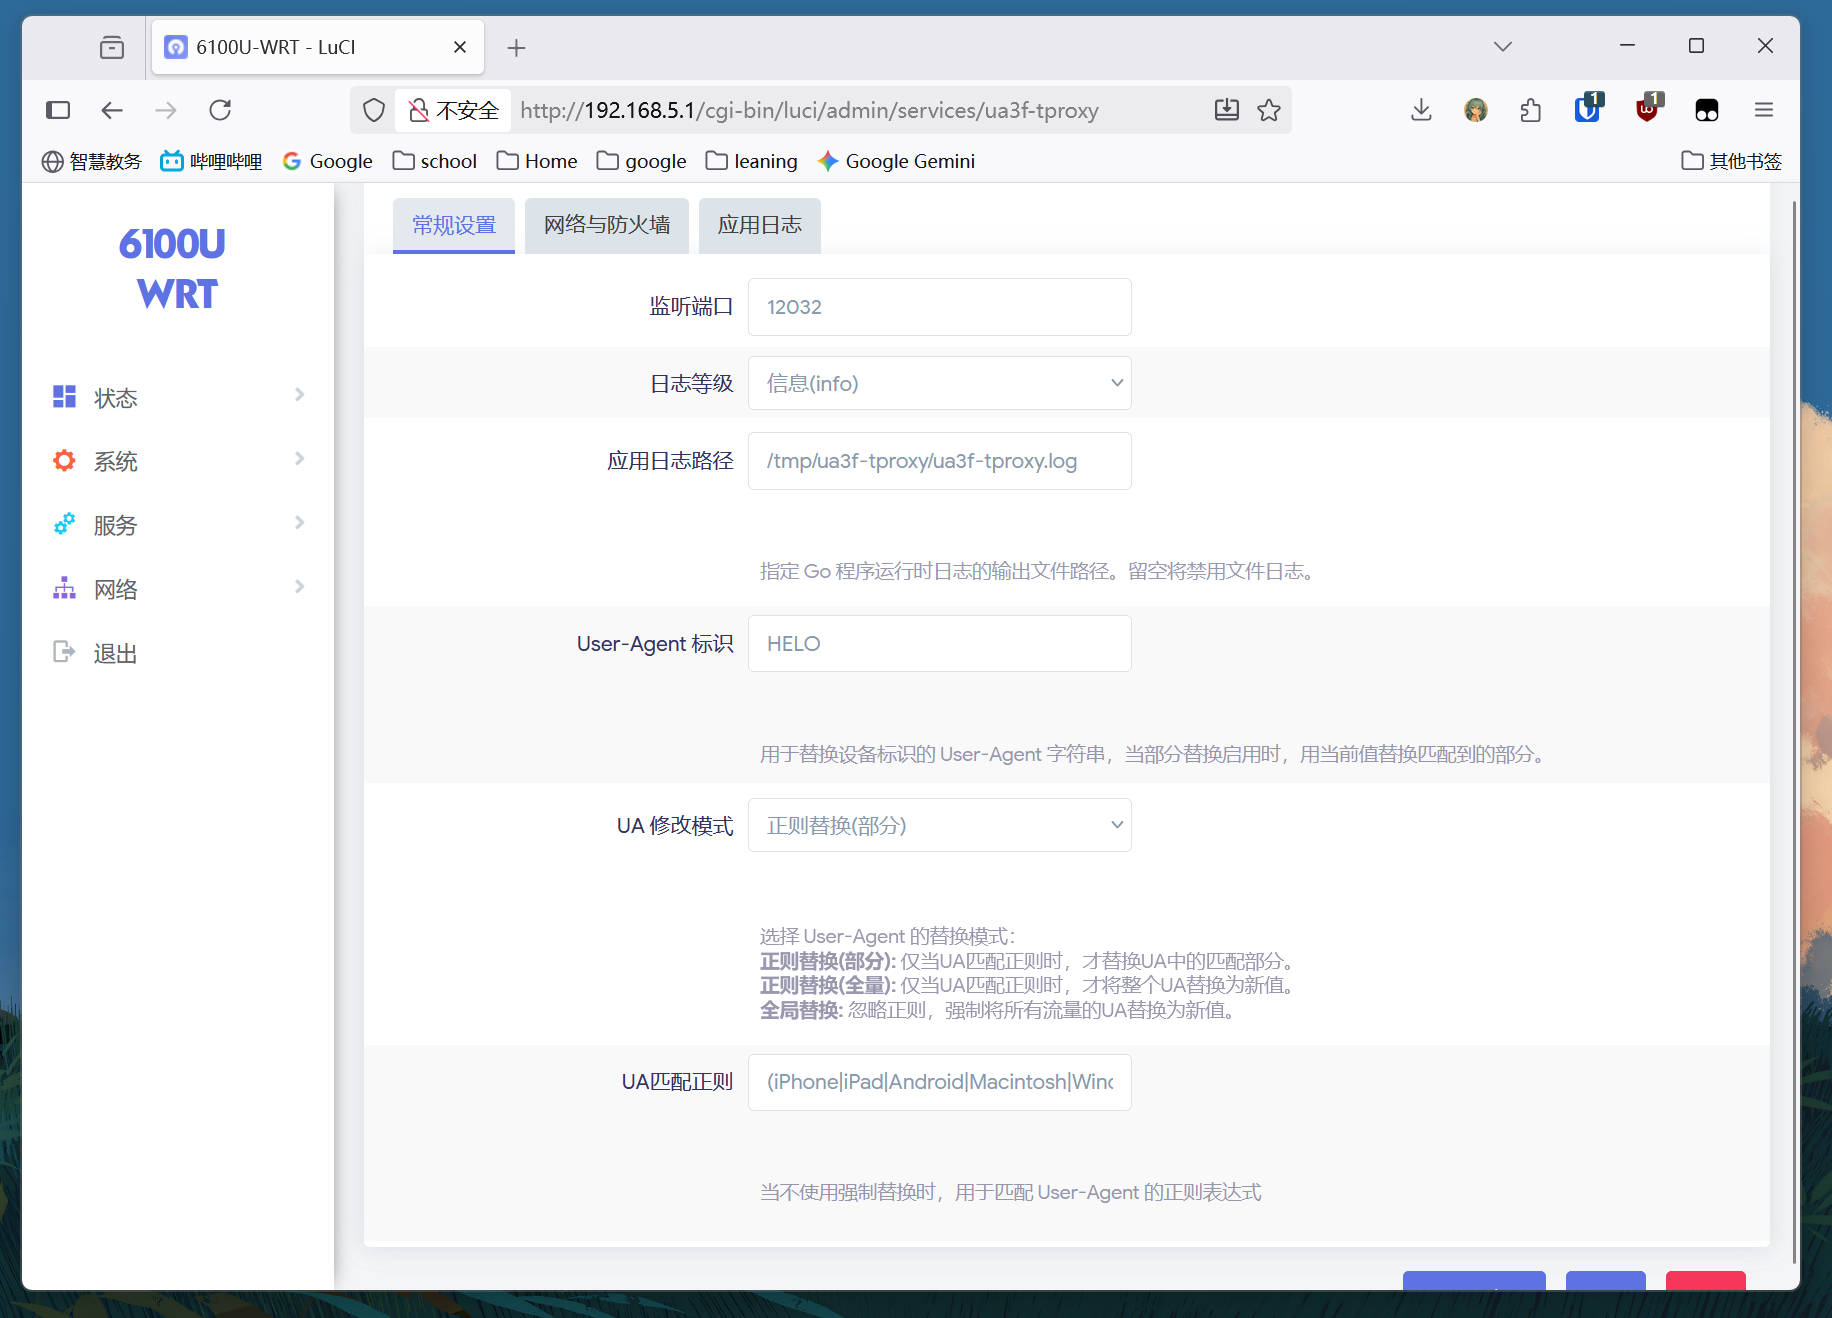
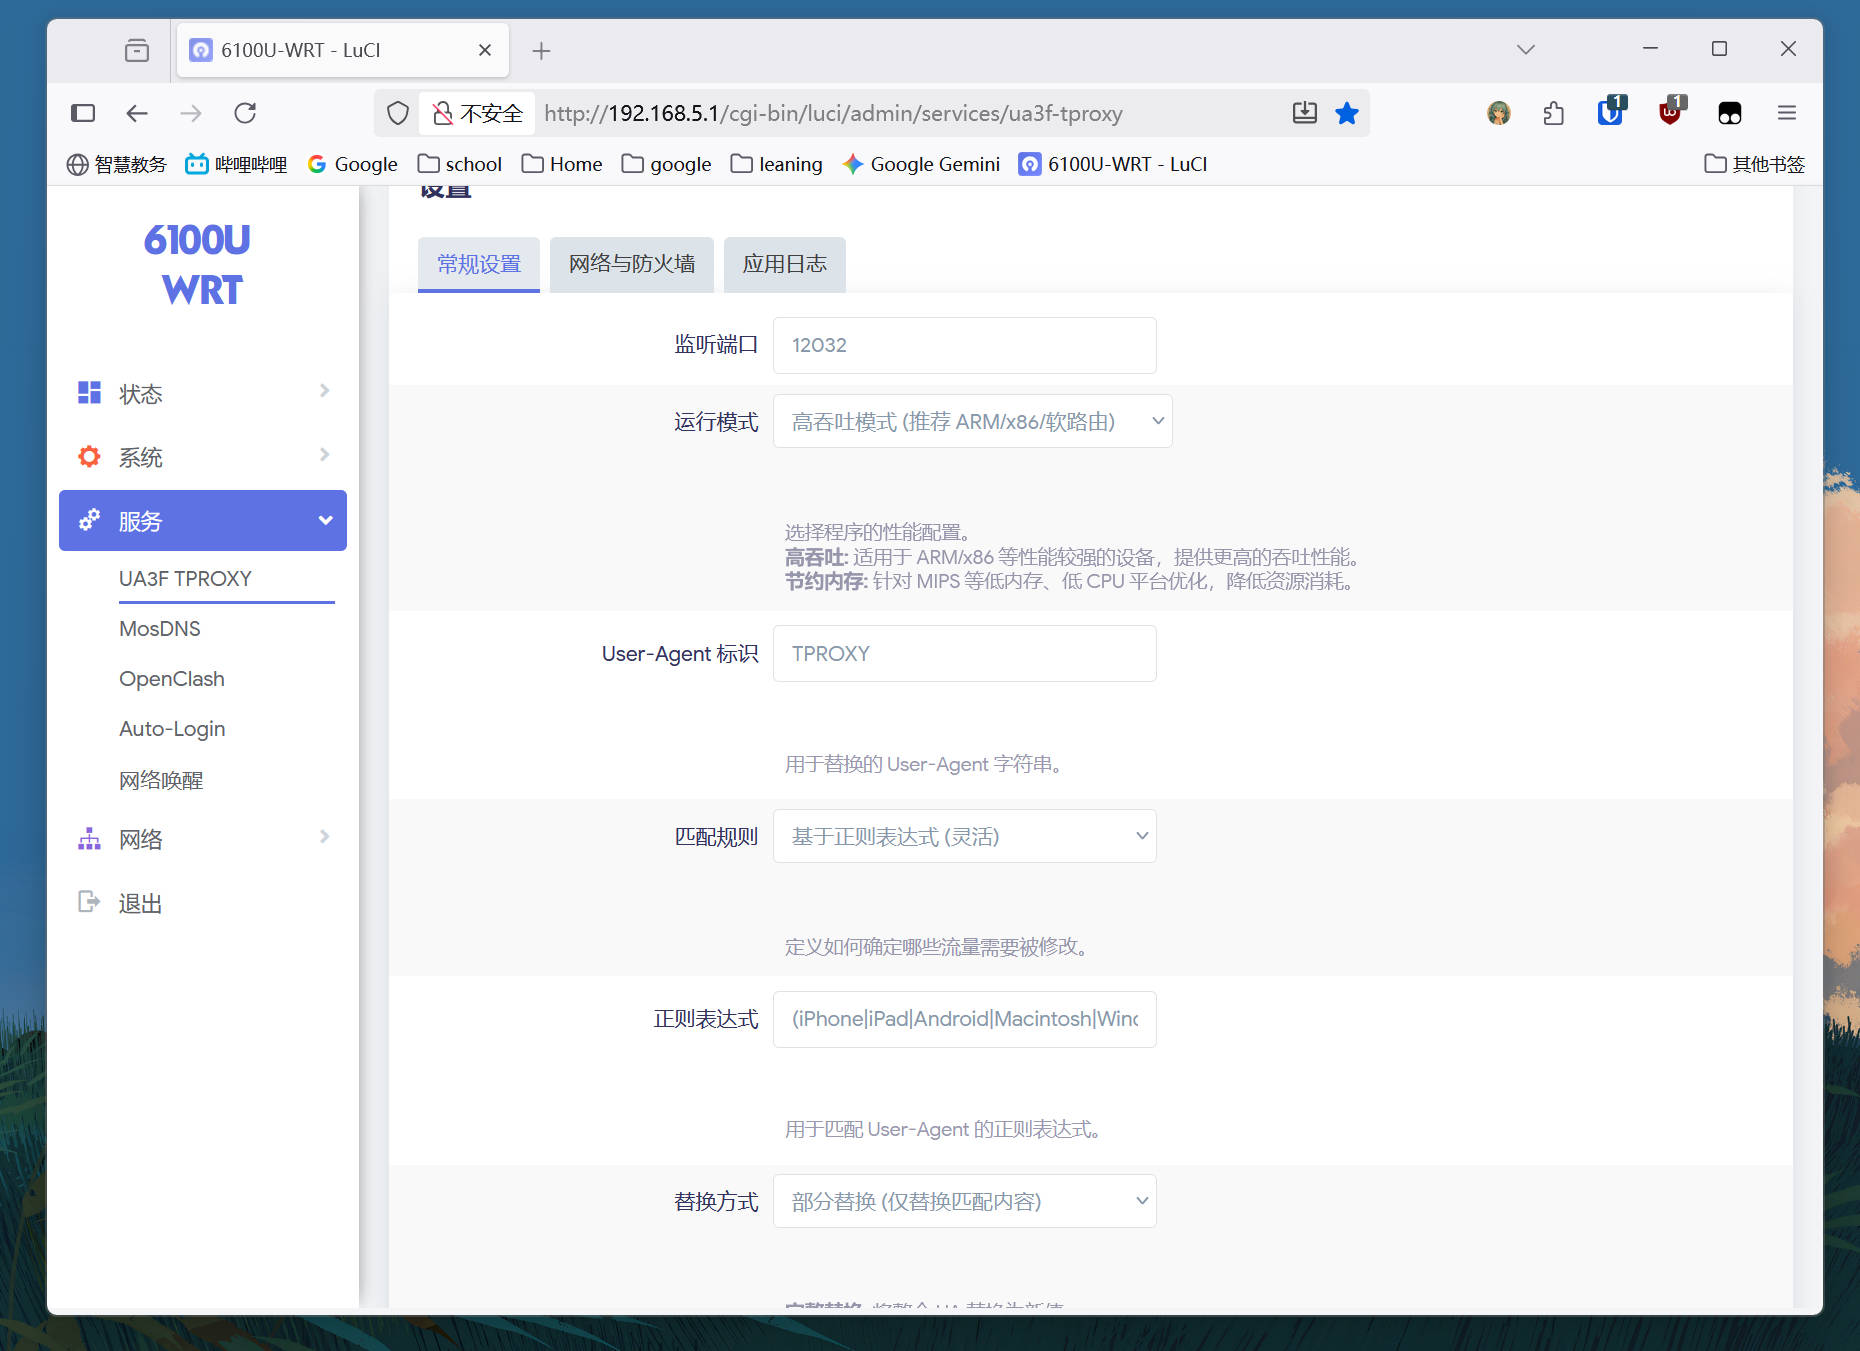
feat: 更新 README.md

diff --git a/README.md b/README.md
@@ -114,55 +114,61 @@ graph LR
 ![screenshot](./img/screemshot_general_1.jpg)
 ![screenshot](./img/screenshot_network.jpg)
 
-## 🛠 UA 替换模式说明
+## ⚙ 核心功能与参数
 
-### 1\. 局部替换 (正则)
+  * **`运行模式` (Operating Profile)**
 
-  * **工作方式**：当 UA 匹配到您设置的正则表达式时，**仅替换** UA 中被正则匹配到的那部分内容。
-  * **适用场景**：只想修改 UA 中的某个关键词（如 `iPhone`），并保留其他信息。
-  * **示例**：
-      * 原始 UA：`Mozilla/5.0 (iPhone; CPU iPhone OS 16_0 like Mac OS X)`
-      * 正 则：`iPhone`
-      * 替换值：`FFF`
-      * **结 果**：`Mozilla/5.0 (FFF; CPU iPhone OS 16_0 like Mac OS X)`
+      * **高吞吐模式**: 推荐 ARM/x86 软路由使用。提供更大的缓存和 I/O 缓冲区，性能更强。
+      * **节约内存模式**: 推荐 MIPS 等低配路由使用。使用更小的缓存和缓冲区以降低内存压力。
 
-### 2\. 整体替换 (正则)
-
-  * **工作方式**：当 UA 匹配到您设置的正则表达式时，**整个** UA 字符串都会被替换为您设置的新值。
-  * **适用场景**：只针对特定 UA (如所有 `Android` 设备) 进行伪装，其他 UA 不受影响。
-  * **示例**：
-      * 原始 UA：`Mozilla/5.0 (Android 12; Mobile; rv:109.0)`
-      * 正 则：`Android`
-      * 替换值：`FFF`
-      * **结 果**：`FFF`
-
-### 3\. 全局替换 (强制)
-
-  * **工作方式**：忽略正则表达式，**强制将所有** 流量的 UA 替换为您设置的新值。
-  * **适用场景**：需要统一所有设备的 UA 标识，无论原始 UA 是什么。
-  * **示例**：
-      * 原始 UA：`Mozilla/5.0 (Windows NT 10.0; Win64; x64)`
-      * 替换值：`FFF`
-      * **结 果**：`FFF`
-
------
-
-### ⚙ 参数说明
-
-  * **`ua` (User-Agent 标识)**
+  * **`User-Agent 标识` (UA String)**
 
       * 您希望使用的新 User-Agent 字符串。
       * 例如，填写 `FFF`，程序就会使用 `FFF` 来执行替换操作。
 
-  * **`ua_mode` (UA 修改模式)**
+  * **`匹配规则` (Match Mode)**
 
-      * 选择上述三种模式之一（**局部替换**、**整体替换**、**全局替换**），用于决定 UA 的处理逻辑。
+      * 这是插件的核心。它决定了哪些流量需要被修改。
+      * **基于关键词 (最快, 推荐)**: 仅当 UA *包含* "关键词列表" 中的任意词组时，才执行替换，该模式下仅支持**完全替换**。
+      * **基于正则表达式 (灵活)**: 仅当 UA *匹配* "正则表达式" 时，才执行替换，该模式支持切换**部分替换**和**完全替换**。
+      * **修改所有流量 (强制)**: 忽略所有匹配，强制替换所有请求的 UA（白名单除外）。
 
-  * **`ua_regex` (UA 匹配正则)**
+  * **`关键词列表` (Keywords List)**
 
-      * 设置一个正则表达式，用于查找和匹配目标 UA。
-      * 此参数仅在 **局部替换** 和 **整体替换** 模式下生效。
-      * 例如：`(iPhone|Android|Windows)`，只有当 UA 包含这些关键字时，替换才会触发。
+      * 仅在 `匹配规则` = "基于关键词" 时显示。
+      * 用逗号分隔，例如: `iPhone,iPad,Android`。
+
+  * **`正则表达式` (UA Regex)**
+
+      * 仅在 `匹配规则` = "基于正则表达式" 时显示。
+
+  * **`替换方式` (Replace Method)**
+
+      * 仅在 `匹配规则` = "基于正则表达式" 时显示。
+      * **完整替换**: 将匹配到的整个 UA 替换为新的 "User-Agent 标识"。
+      * **部分替换**: 仅将 UA 中被正则*匹配到的部分*替换为 "User-Agent 标识"。
+
+  * **`User-Agent 白名单` (Whitelist)**
+
+      * 一个**最高优先级**列表。
+      * 在此列表中的 UA 字符串将**永远不会**被修改，并会缓存其“放行”结果。
+
+
+## 📊 运行统计
+
+新的统计面板提供了更详细的性能数据。
+
+  * **当前连接**: 实时的并发连接数。
+  * **请求总数**: 程序检测到的 HTTP 请求总数。
+  * **处理速率**: (请求总数 - 上次请求总数) / 刷新间隔，即 RPS。
+  * **成功修改**: 成功修改 UA 的请求计数。
+  * **直接放行**: 因白名单、不匹配规则、绕过端口等原因被放行的请求计数。
+  * **规则处理**: 真正执行了“关键词”或“正则”匹配的请求数（即未命中缓存的请求）。
+  * **缓存(修改)**: 命中缓存且决策为“修改”的请求数。
+  * **缓存(放行)**: 命中缓存且决策为“放行”的请求数。
+  * **总缓存率**: `(缓存(修改) + 缓存(放行)) / 请求总数`。
+
+
 
 ## 📦 安装
 
@@ -222,6 +228,12 @@ fw3 --version
 
 ## 💡 兼容性与注意事项
 
-  * **系统依赖**: 本项目基于 OpenWrt 23.05+ 构建，依赖 `nftables`。
-  * **重要**: "ua3f-tproxy" 按照上方**架构对比**中的 "场景二" 配置可实现完美的流量处理（国内流量只改 UA，国外流量走代理）。请在 ua3f-tproxy 中 **关闭** "代理路由器本机"，并在 OpenClash 设置中 **打开** "代理路由器流量"。
+  * **代理共存 (重要)**:
+
+      * 如需和 OpenClash 等代理插件共存，请在 **UA3F-TPROXY** 的 "网络与防火墙" 设置中 **关闭** "代理主机流量" (`proxy_host`) 选项。
+      * 同时，在 OpenClash 的设置中 **打开** "代理路由器流量" (或类似选项)。
+      * 这可以确保流量正确分流，避免产生代理回环。
+  * **更新配置**:
+
+    * 从 `0.2.x` 版本升级到 `0.3.0+` (Reform) 版本后，由于配置变化巨大，建议删除旧的配置文件 (`/etc/config/ua3f-tproxy`) 并重新配置，或使用 `opkg` 升级时的 `-opkg` 备份文件覆盖。
   * **测试**: 已在 `X86_64` (OpenWrt 23.05) 平台测试通过，可与 `openclash`, `sqm_qos`, `mwan3`, `wireguard` 等插件正常协同工作。
